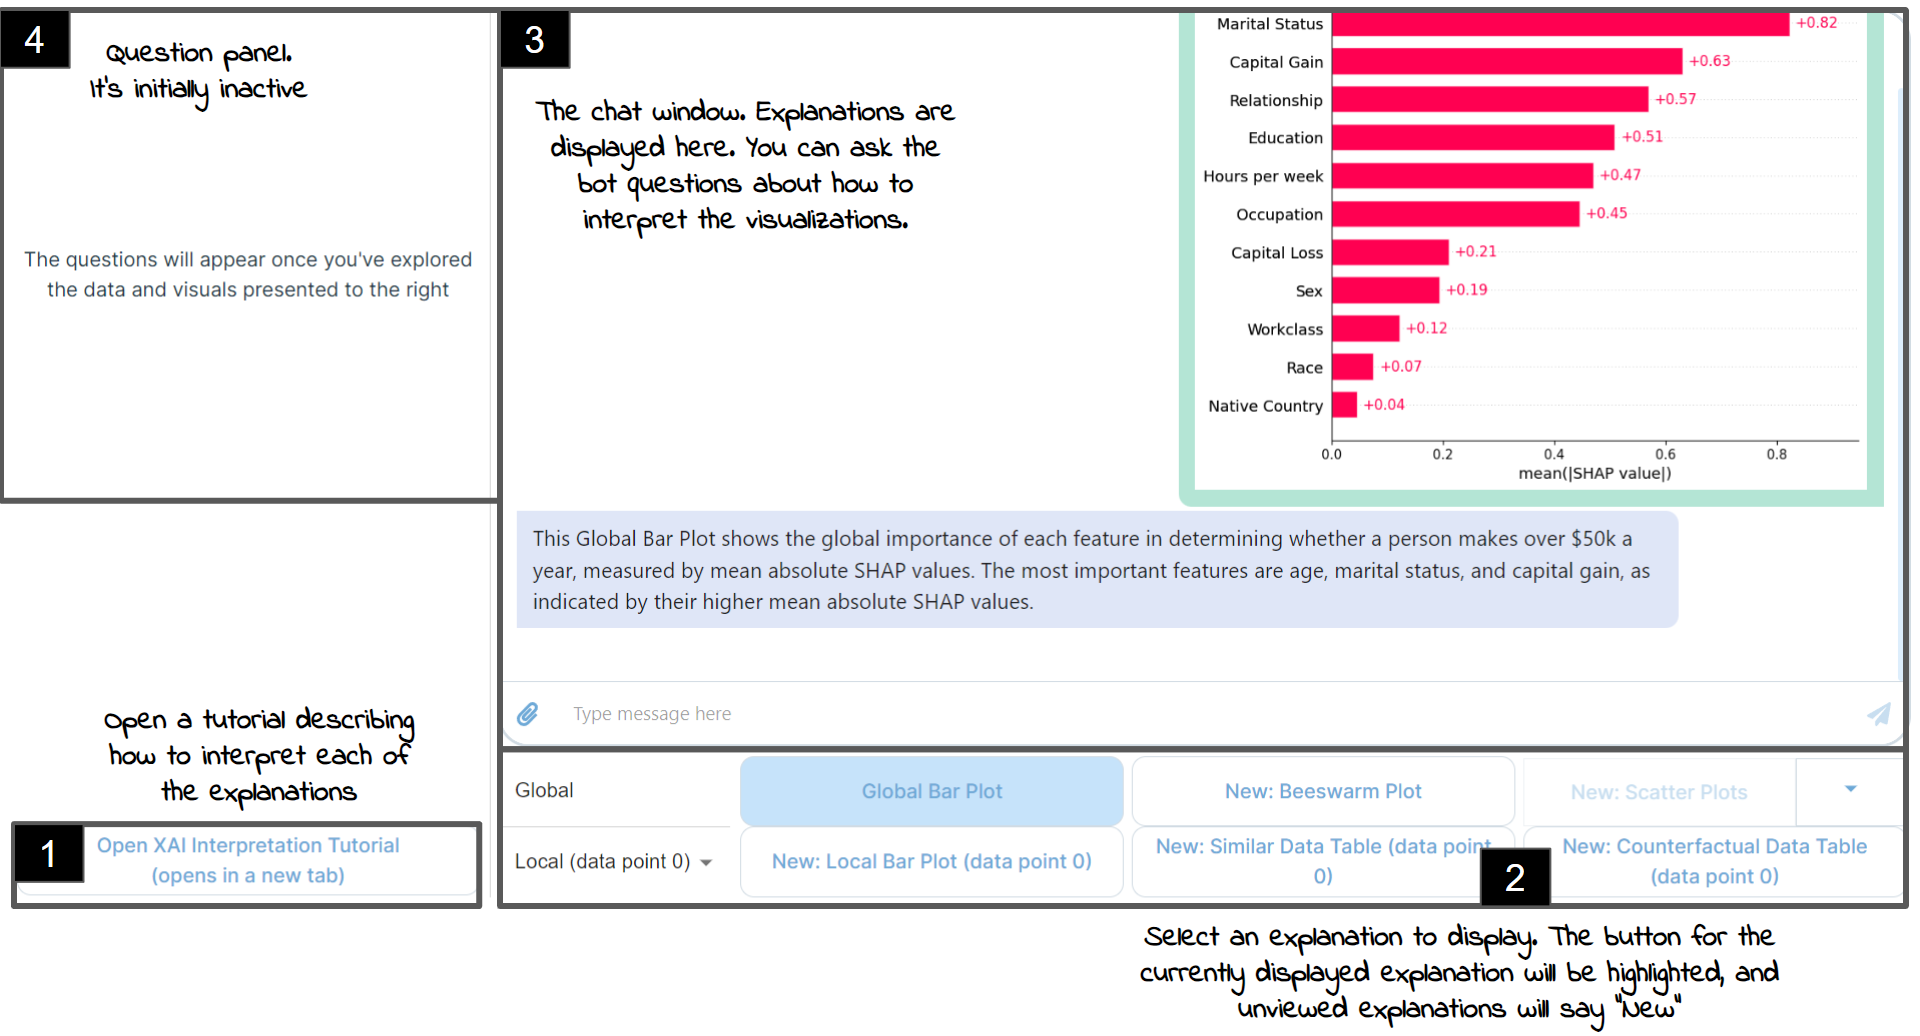
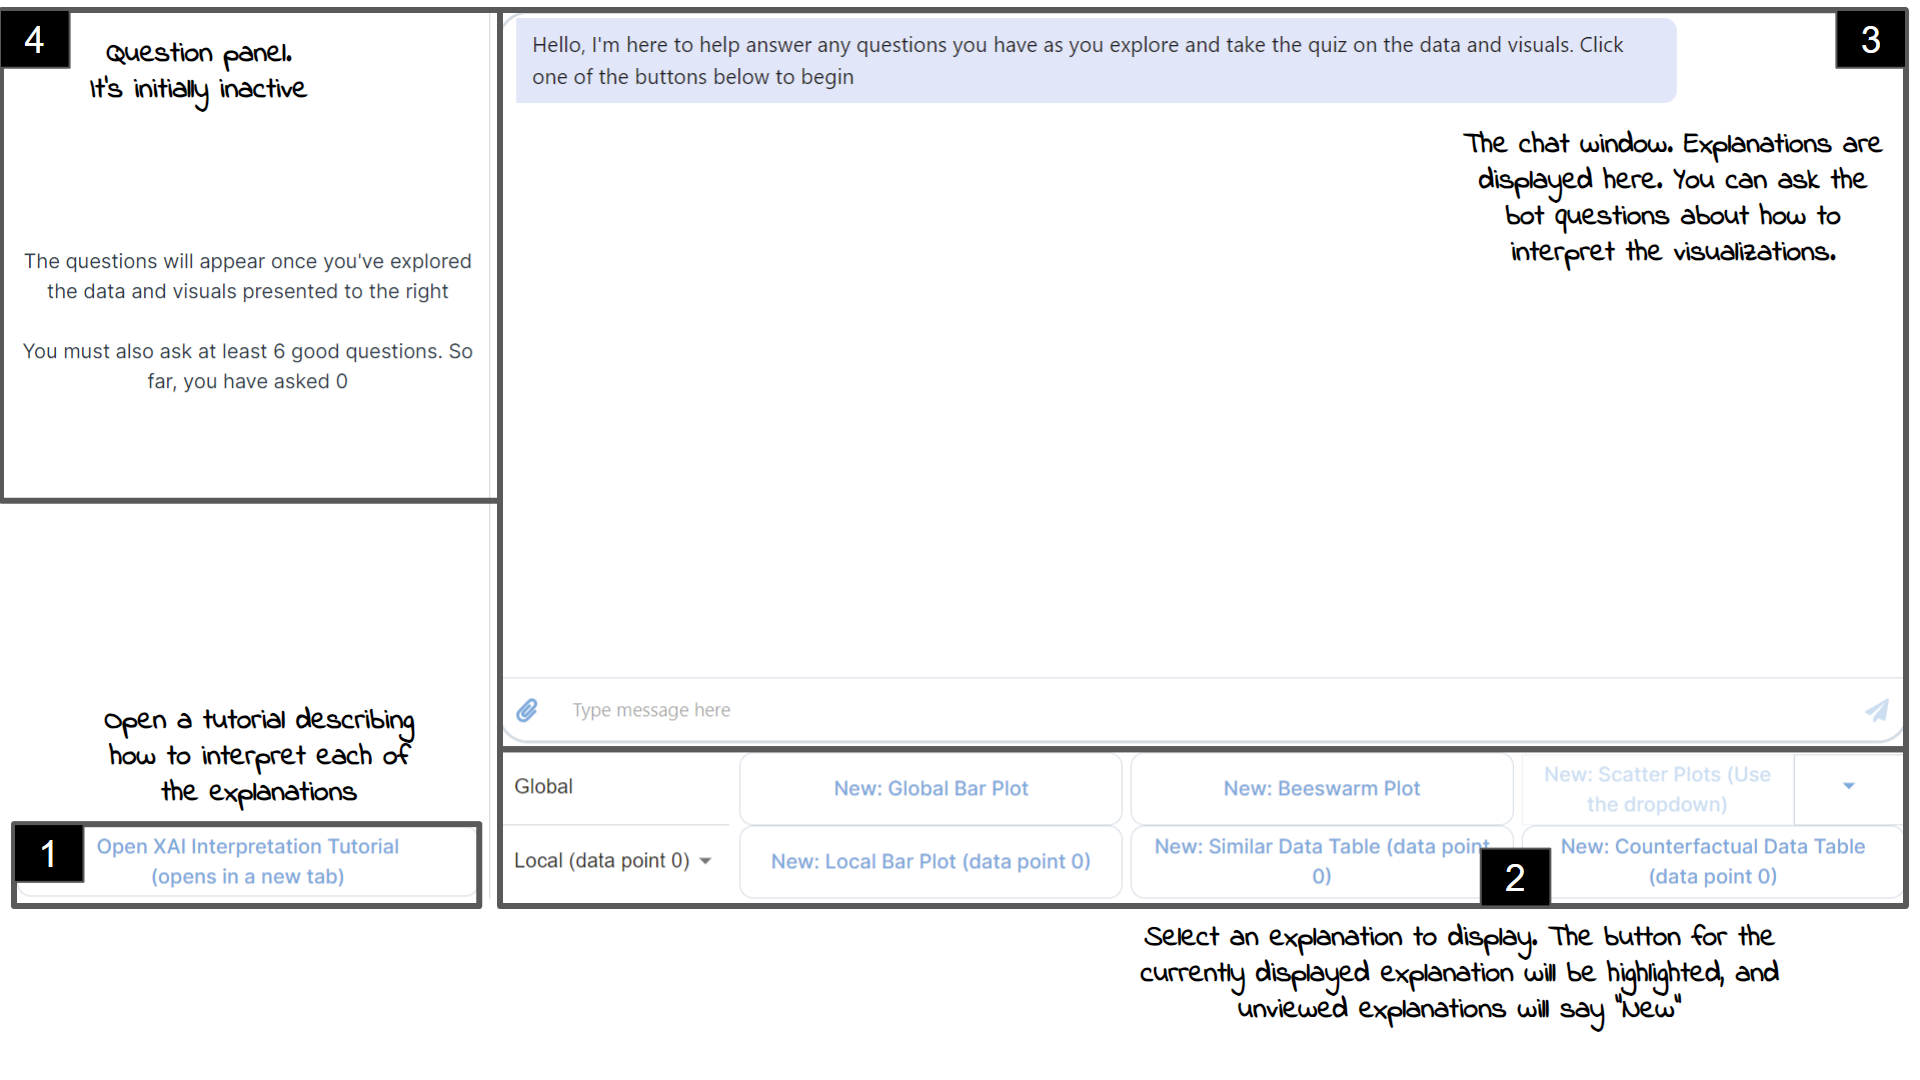
Tutorial updates for good questions

Changed region(s): [[0.0, 0.0, 1.0, 0.9884], [0.0, 0.2162, 0.25, 0.3707], [0.0, 0.0309, 0.1562, 0.1236]]

diff --git a/src/InterfaceTutorial.jsx b/src/InterfaceTutorial.jsx
@@ -51,7 +51,7 @@ const InterfaceTutorial = ({ condition }) => {
 
       <StyledHeader>The Interface:</StyledHeader>
       <StyledParagraph>
-        First, you will explore the data and visualizations in the interface. A quiz will be unlocked once you've explored everything. The data and visualizations will remain accessible while completing the quiz.
+        First, you will explore the data and visualizations in the interface. A quiz will be unlocked once you've explored everything{condition != "noChat" ? " and asked 6 good questions to the bot" : ""}. The data and visualizations will remain accessible while completing the quiz.
       </StyledParagraph>
       <StyledParagraph>
         <b>Note: </b> You don't need to visit every version of every visual to unlock the quiz. You'll only need to view one scatter plot out of the 12 available, and one version of each local visualization.
